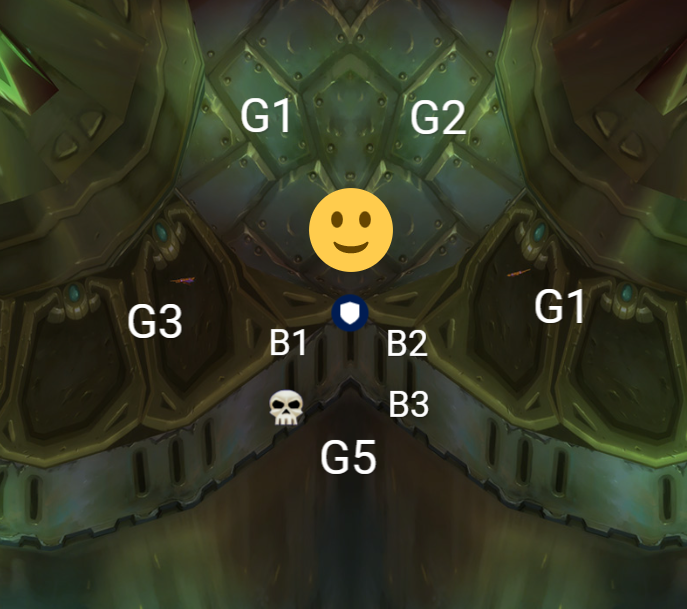
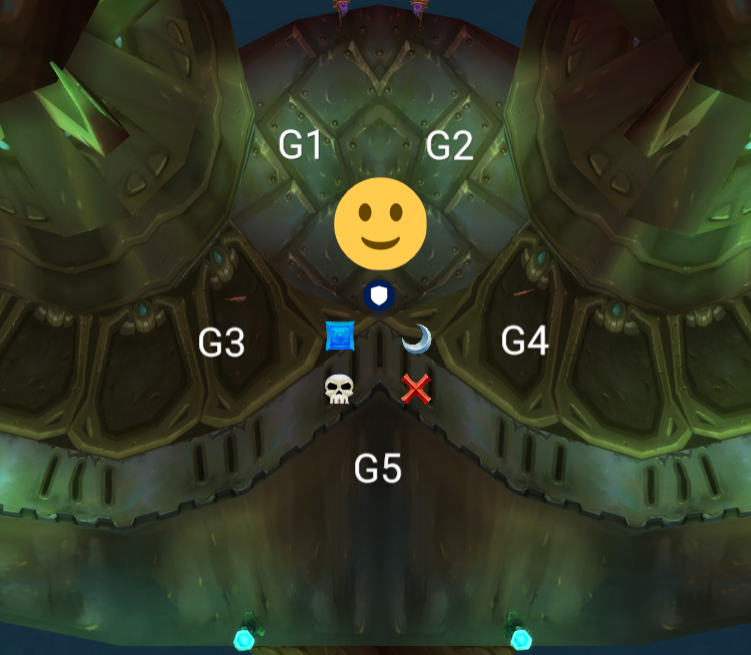
fixed hydross image

diff --git a/ssc.md b/ssc.md
@@ -26,9 +26,9 @@
 Marker | Tank
 -------|--------
 <img src="images/skull.png" width="25" height="25"> | Aegistwo
-<img src="images/skull.png" width="25" height="25"> | Aegistwo
-<img src="images/skull.png" width="25" height="25"> | Aegistwo
-<img src="images/skull.png" width="25" height="25"> | Aegistwo
+<img src="images/cross.png" width="25" height="25"> | Aegistwo
+<img src="images/square.png" width="25" height="25"> | Aegistwo
+<img src="images/moon.png" width="25" height="25"> | Aegistwo
 
 ![Hydross](images/hydross.png)
 
